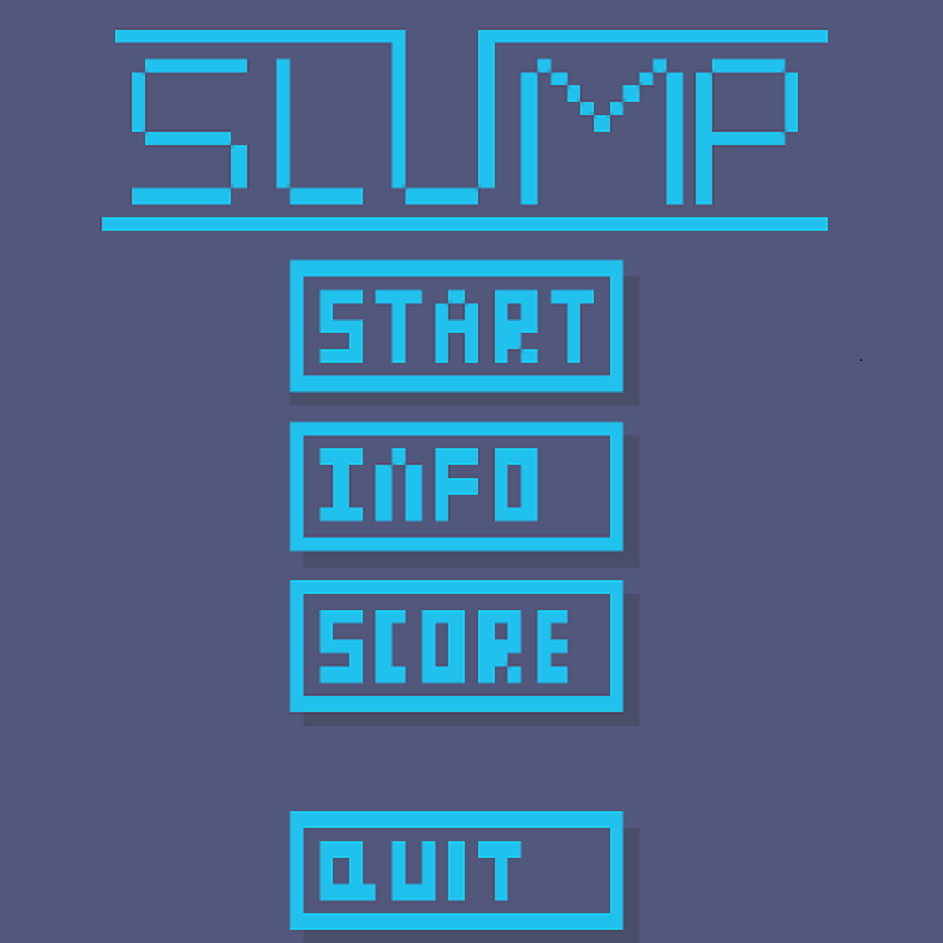
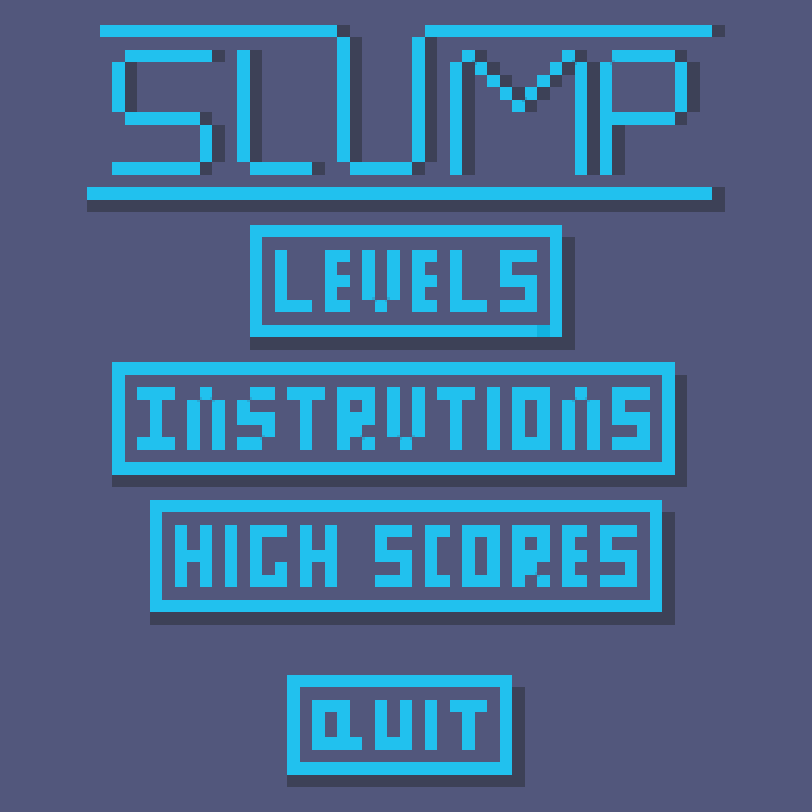
Add files via upload

Changed region(s): [[0.0924, 0.0308, 0.8929, 0.7697], [0.3079, 0.8313, 0.6773, 0.9852], [0.8621, 0.0308, 0.8929, 0.0616]]

diff --git a/MainWindow.java b/MainWindow.java
@@ -1,6 +1,7 @@
 import java.awt.Canvas;
 import java.awt.Graphics;
 import javax.swing.JFrame;
+import javax.swing.*;
 import java.awt.event.*;
 import java.awt.image.*;
 import java.awt.*;
@@ -11,29 +12,40 @@ public class MainWindow extends JFrame implements ExitListener{
   Game gameScreen;
   String curScreen;
   int size;
-
+  
   public MainWindow(){
     super("The Slump");
     curScreen = "menu";
-    size = Math.min((int)Toolkit.getDefaultToolkit().getScreenSize().getHeight(), (int)Toolkit.getDefaultToolkit().getScreenSize().getWidth())-10;//finds the largest size it can be
-    setSize(size, size);//Sets the size
-    addMouseListener(new MouseAdapter() {//Allows for mouse interaction
+    //size = Math.min((int)Toolkit.getDefaultToolkit().getScreenSize().getHeight(), (int)Toolkit.getDefaultToolkit().getScreenSize().getWidth())-10;//finds the largest size it can be
+    setSize(811, 821);//Sets the size  
+    addMouseListener(new MouseAdapter() {//Allows for mouse interaction         
       public void mousePressed(MouseEvent me){
         int x = me.getX();
         int y = me.getY();
+        System.out.println(x + " " + y);
         if(curScreen.equals("menu")){//When the screen is on menu
-          if(x>290 && y> 130 && x < 623 && y > 262)
-            newGame();
+          if(x>252 && y> 235 && x < 559 && y < 346)
+            openLevel();
+          if(x>111 && y> 372 && x < 673 && y < 481)
+            openIns ();
+          if(x>150 && y> 508 && x < 661 && y < 621)
+            openHighScore ();
+          if(x>288 && y> 685 && x < 509 && y < 784)
+            openQuit ();
         }else if(curScreen.equals("level")){//When the screen is on level
-          openLevel();
+          if(x>252 && y> 235 && x < 559 && y < 346)
+            newGame(1);
         }else if(curScreen.equals("highScore")){
           openHighScore();
         }else if(curScreen.equals("resume")){
           resumeGame();
         }else if(curScreen.equals("newGame")){
-         newGame();
+          //newGame();
+        }else if (curScreen.equals ("instructions"));
+           if(x>361 && y> 709 && x < 487 && y < 786)
+            openMenu ();
         }
-      } 
+       
     });
     setLocationRelativeTo(null);
     setDefaultCloseOperation(JFrame.EXIT_ON_CLOSE);
@@ -46,6 +58,16 @@ public class MainWindow extends JFrame implements ExitListener{
     repaint();
   }
   
+  public void openQuit(){
+    curScreen = "quit";
+    repaint();
+  }
+  
+  public void openIns () {
+    curScreen = "instructions";
+    repaint();
+  }
+  
   public void openLevel(){
     curScreen = "level";
     repaint();
@@ -55,36 +77,59 @@ public class MainWindow extends JFrame implements ExitListener{
     curScreen = "highScore";
     repaint();
   }
-
+  
   public void resumeGame(){
     add(gameScreen);
   }
-
-  public void newGame(){
-    gameScreen = new Game(1, this);
+  
+  public void newGame(int level){
+    gameScreen = new Game(level, this);
     add(gameScreen);
     gameScreen.requestFocusInWindow(); 
     pack();
   }
-
+  
   public void exit(){
     remove(gameScreen);
     curScreen = "menu";
   }
-
+  
   public void paint(Graphics g){
     g.setColor(new Color(0, 0, 0));
     g.fillRect(0, 0, getWidth(), getHeight());
     if(curScreen.equals("menu")){
       try {
         BufferedImage background = ImageIO.read(new File("Screens/Menu.png"));
-        g.drawImage(background, 0, 0, size, size, null);
+        g.drawImage(background, 0, 10, 811, 811, null);
       } catch (IOException e) {
       }
     }else if(curScreen.equals("level")){
+      try {
+        BufferedImage background = ImageIO.read(new File("Screens/Levels.png"));
+        g.drawImage(background, 0, 10, 811, 811, null);
+      } catch (IOException e) {
+      }
+    }else if(curScreen.equals("instructions")){
+      try {
+        BufferedImage background = ImageIO.read(new File("Screens/Instructions.png"));
+        g.drawImage(background, 0, 20, 811, 811, null);
+      } catch (IOException e) {
+      }
+    }else if(curScreen.equals("quit")){
+      try {
+        BufferedImage background = ImageIO.read(new File("Screens/blank.png"));
+        g.drawImage(background, 0, 20, 811, 811, null);
+      } catch (IOException e) {
+      }
+    }else if(curScreen.equals("highScore")){
+      try {
+        BufferedImage background = ImageIO.read(new File("Screens/blank.png"));
+        g.drawImage(background, 0, 20, 811, 811, null);
+      } catch (IOException e) {
+      }
     }
   }
-
+  
   public static void main(String[]args){
     new MainWindow();
   }

diff --git a/HighScore.java b/HighScore.java
@@ -1,6 +1,7 @@
 import java.awt.Canvas;
 import java.awt.Graphics;
-import javax.swing.*;
+import javax.swing.JFrame;
+import javax.swing.Timer;
 import java.awt.event.*;
 import java.awt.image.*;
 import java.awt.*;
@@ -10,9 +11,7 @@ import java.util.*;
 
 public class HighScore extends Canvas{
 	BufferedImage background;
-	String[] lines;
-	String path;
-	BufferedReader br;
+	File information;
 
 	public HighScore(){
 		try{
@@ -20,36 +19,7 @@ public class HighScore extends Canvas{
 		}catch(IOException e){
 			e.printStackTrace();
 		}
-		boolean completed = false;
-		path = "";
-		try{
-			br = new BufferedReader(new FileReader(path));
-			completed = true;
-		}catch(IOException e){
-			e.printStackTrace();
-			JDialog dialog = new JDialog();
-			JPanel error = new JPanel();
-			dialog.setSize(300, 150);
-			JLabel prompt = new JLabel("Choose a file path to save your highscores:");
-			JTextField textField = new JTextField(20);
-			error.add(prompt);
-			error.add(textField);
-			JButton submit = new JButton("Submit");
-			submit.addActionListener(new ActionListener(){
-				public void actionPerformed(ActionEvent ae){
-					path = textField.getText();
-					try{
-						br = new BufferedReader(new FileReader(path));
-					}catch(IOException e){
-						textField.setText("That path does not exist!");
-					}
-				}
-			});
-			error.add(submit);
-			dialog.add(error);
-			dialog.setLocationRelativeTo(null);
-			dialog.setVisible(true);
-		}
+		repaint();
 	}
 
 
@@ -57,13 +27,5 @@ public class HighScore extends Canvas{
 
 	}
 
-	public static void main(String[] args) {
-		JFrame frame = new JFrame("test");
-		frame.setSize(300, 300);
-		frame.add(new HighScore());
-		frame.setLocationRelativeTo(null);
-    frame.setDefaultCloseOperation(JFrame.EXIT_ON_CLOSE);
-    frame.setVisible(true);
-	}
 
 }

diff --git a/Game.java b/Game.java
@@ -52,7 +52,11 @@ public class Game extends Canvas implements ActionListener{
 
  public void level1(){
   setSpawn(100, 200);
-  try{background = ImageIO.read(new File("platform.png"));}catch(IOException e){}//Remember to add the actual background
+  try{
+    background = ImageIO.read(new File("platform.png"));
+  }
+  catch(IOException e){
+  }//Remember to add the actual background
   platforms.add(new Platform(0, 380, 400, 0, 0));
   platforms.add(new Platform(190, 340, 60, 0, 0));
   platforms.add(new Platform(193, 300, 30, 0, 0));
@@ -142,7 +146,7 @@ public class Game extends Canvas implements ActionListener{
      moveX = 0;
    }else if(ch == KeyEvent.VK_RIGHT || ch == KeyEvent.VK_D){
     if(moveX!=-3)
-    	moveX = 0;
+     moveX = 0;
    }
   }
  }

diff --git a/NPC.java b/NPC.java
@@ -1,0 +1,5 @@
+public class NPC {
+  //BufferedImage image;
+  Dialogue words;
+  
+}
